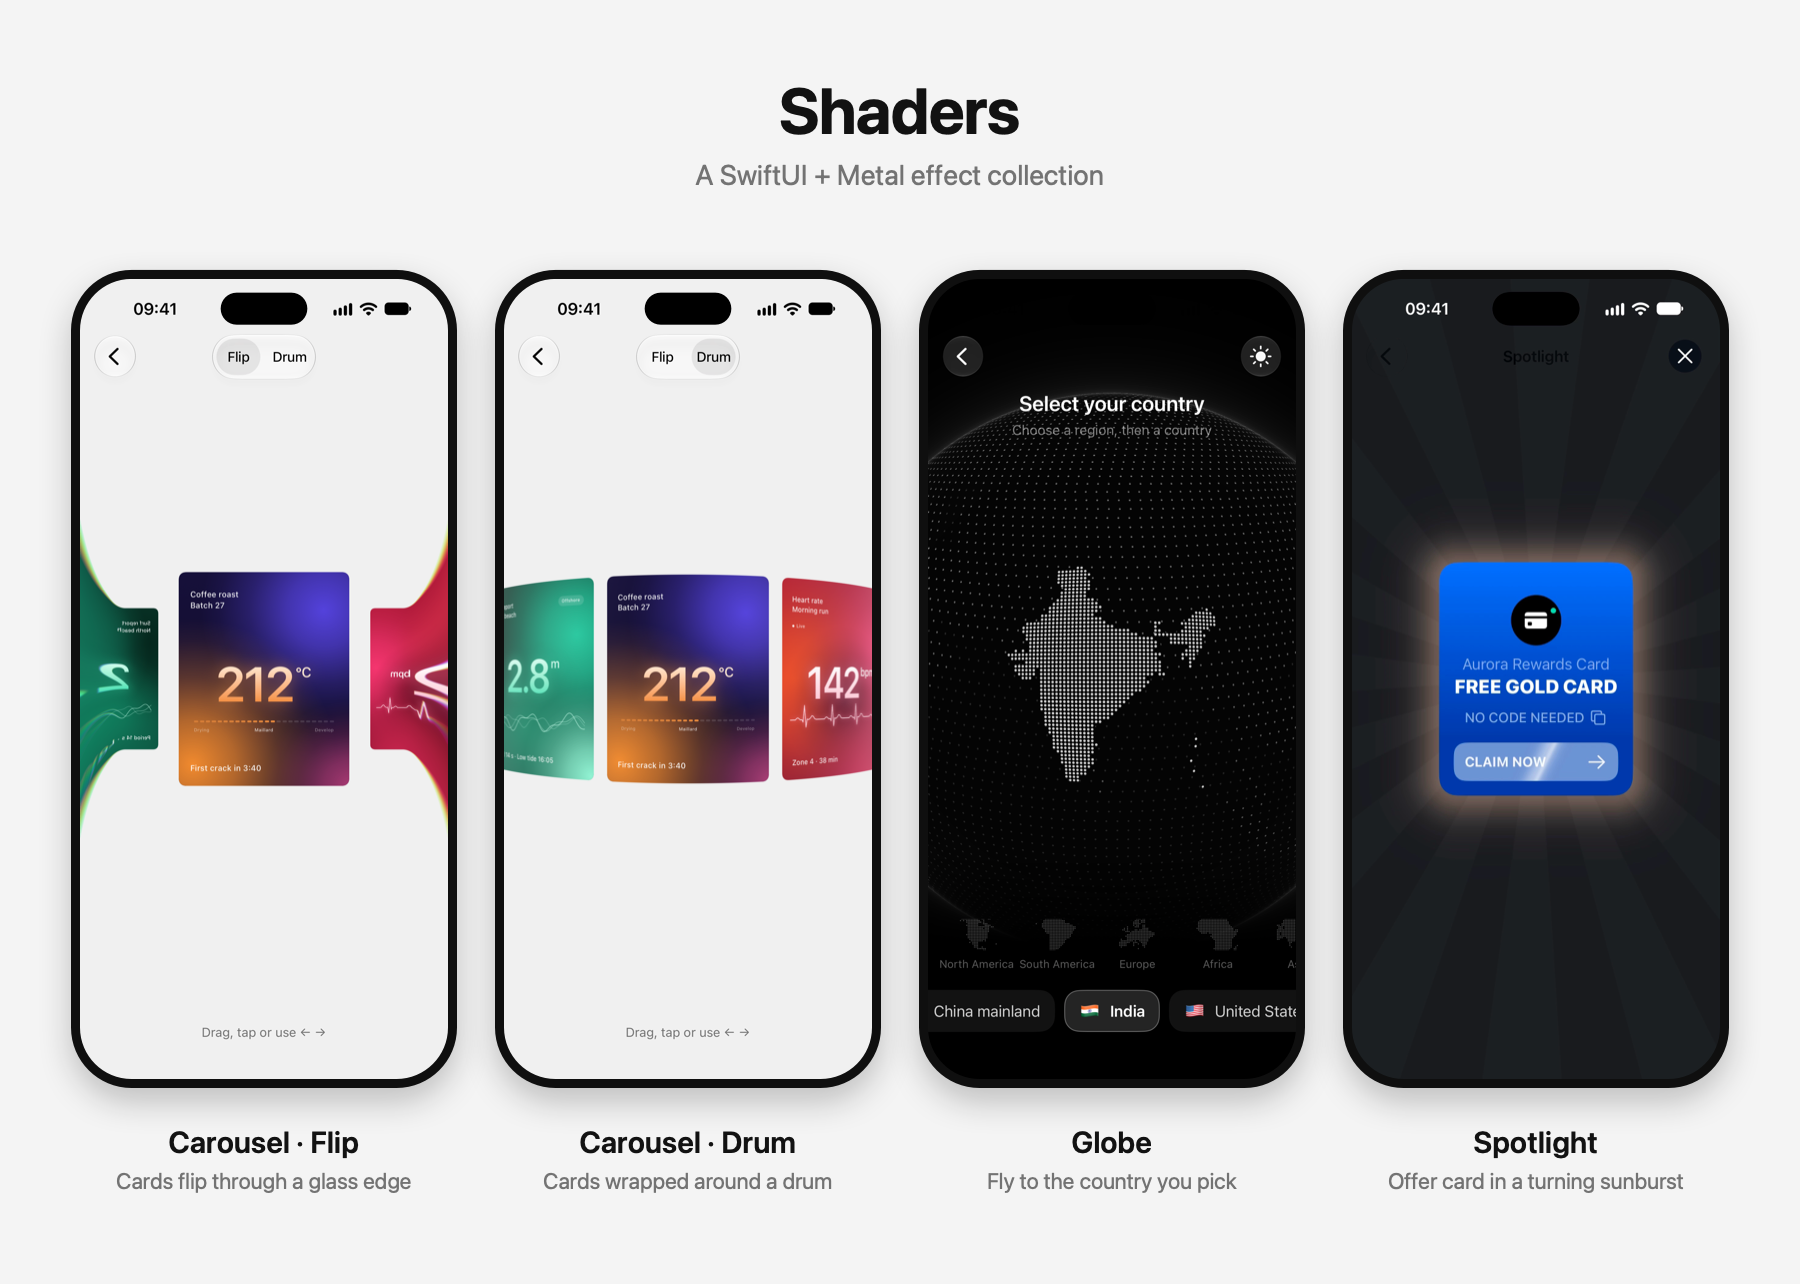
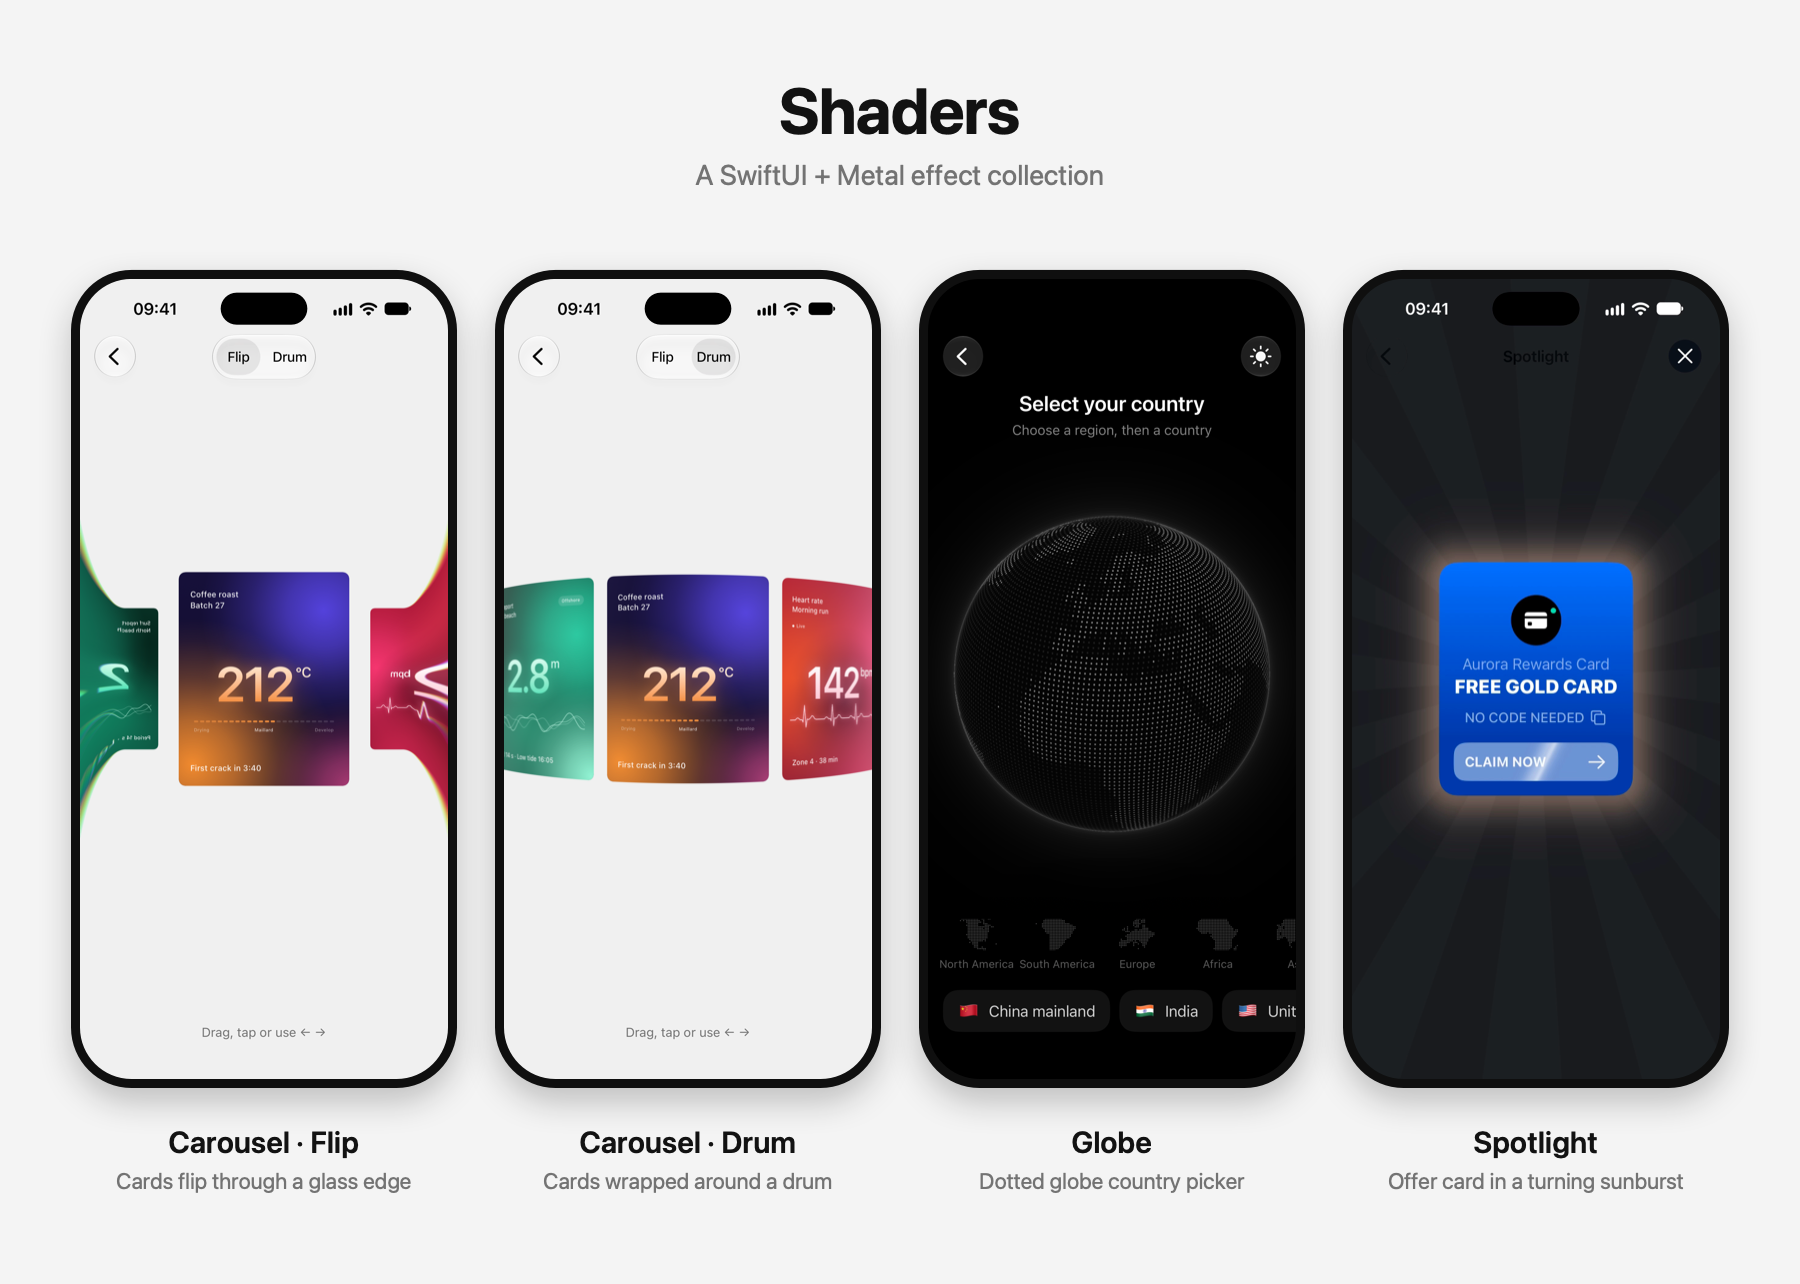
Readme file update

diff --git a/README.md b/README.md
@@ -1,6 +1,6 @@
 SwiftUI app with a collection of Metal shaders
 
-![The Carousel in its flip and drum styles, the Globe zoomed in on India, and the Spotlight offer card, each running on an iPhone](docs/showcase.png)
+![The Carousel in its flip and drum styles, the whole dotted Globe, and the Spotlight offer card, each running on an iPhone](docs/showcase.png)
 
 ## Effects
 
